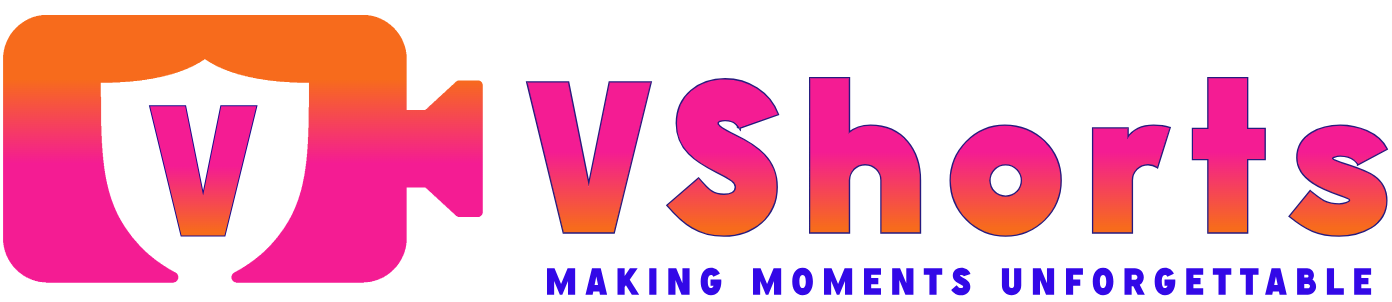
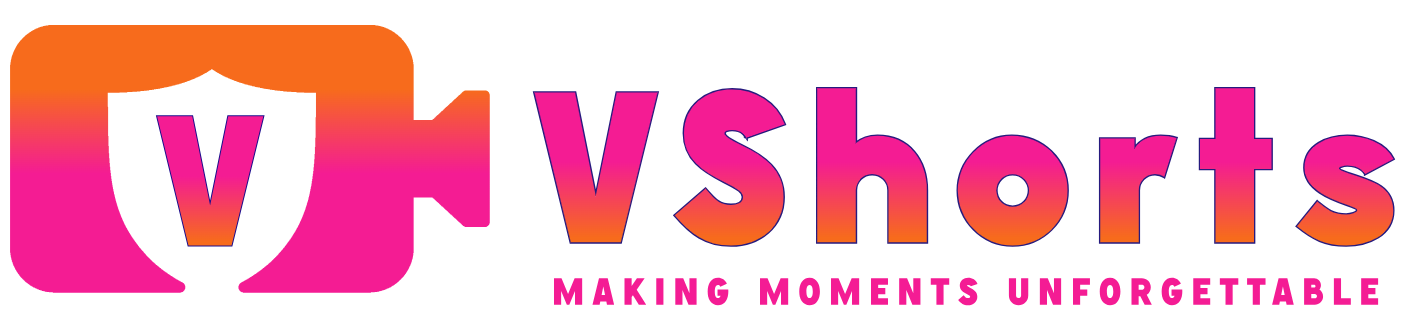
modified

diff --git a/components/Navbar.tsx b/components/Navbar.tsx
@@ -6,14 +6,17 @@ import { AiOutlineLogout } from 'react-icons/ai';
 import { BiSearch } from 'react-icons/bi';
 import { IoMdAdd } from 'react-icons/io';
 import { GoogleLogin, googleLogout  } from '@react-oauth/google';
+import { MdDarkMode, MdLightMode } from 'react-icons/md';
 import useAuthStore from '../store/authStore';
 import { IUser } from '../types';
 import { createOrGetUser } from '../utils';
 import Logo from '../utils/vshorts.png'
+import DarkLogo from '../utils/vshortsd.png'
 
 const Navbar = () => {
   const [user, setUser] = useState<IUser | null>();
   const [searchValue, setSearchValue] = useState('');
+  const [isDarkMode, setIsDarkMode] = useState(false)
   const router = useRouter();
   const { userProfile, addUser, removeUser } = useAuthStore();
   
@@ -29,13 +32,22 @@ const Navbar = () => {
     }
   };
 
+  const toggleDarkMode = () => {
+    setIsDarkMode(!isDarkMode);
+    if (isDarkMode) {
+      document.documentElement.classList.remove('dark');
+    } else {
+      document.documentElement.classList.add('dark');
+    }
+  };
+  
   return (
     <div className='w-full flex justify-between items-center border-b-2 border-gray-200 py-2 px-4'>
       <Link href='/'>
         <div className='w-[120px] md:w-[160px] md:h-[30px] h-[30px]'>
           <Image
             className='cursor-pointer'
-            src={Logo}
+            src={isDarkMode ? DarkLogo : Logo}
             alt='logo'
             layout='responsive'
           />
@@ -50,7 +62,7 @@ const Navbar = () => {
           <input
             value={searchValue}
             onChange={(e) => setSearchValue(e.target.value)}
-            className='bg-primary p-3 md:text-md font-medium border-2 border-gray-100 focus:outline-none focus:border-2 focus:border-gray-300 w-[300px] md:w-[350px] rounded-full  md:top-0'
+            className='bg-primary p-3 md:text-md text-primary dark:text-primary font-medium border-2 border-gray-100 focus:outline-none focus:border-2 focus:border-gray-300 w-[300px] md:w-[350px] rounded-full  md:top-0'
             placeholder='Search accounts and videos'
           />
           <button
@@ -61,6 +73,14 @@ const Navbar = () => {
           </button>
         </form>
       </div>
+      <button
+            type='button'
+            className='border-2 px-2 md:px-4 text-md font-semibold flex items-center gap-2'
+            onClick={toggleDarkMode}
+          >
+            {isDarkMode ? <MdLightMode className='text-xl' /> : <MdDarkMode className='text-xl' />}
+            <span className='hidden md:block'>Dark Mode</span>
+        </button>
       <div>
         {user ? (
           <div className='flex gap-5 md:gap-10'>

diff --git a/components/Discover.tsx b/components/Discover.tsx
@@ -9,22 +9,22 @@ const Discover: NextPage = () => {
   const router = useRouter();
   const { topic } = router.query;
 
-  const activeTopicStyle = 'xl:border-2 hover:bg-primary xl:border-[#F51997] px-3 py-2 rounded xl:rounded-full flex items-center gap-2 justify-center cursor-pointer text-[#F51997]';
-  const topicStyle = 'xl:border-2 hover:bg-primary xl:border-gray-300 px-3 py-2 rounded xl:rounded-full flex items-center gap-2 justify-center cursor-pointer text-black';
+  const activeTopicStyle = 'text-primary dark:text-primary xl:border-2 hover:bg-primary xl:border-[#F51997] px-3 py-2 rounded xl:rounded-full flex items-center gap-2 justify-center cursor-pointer text-[#F51997]';
+  const topicStyle = 'text-primary dark:text-primary xl:border-2 hover:bg-primary xl:border-gray-300 px-3 py-2 rounded xl:rounded-full flex items-center gap-2 justify-center cursor-pointer text-black';
 
   return (
     <div className='xl:border-b-2 xl:border-gray-200 pb-6'>
       <p className='text-gray-500 font-semibold m-3 mt-4 hidden xl:block'>
         Popular Topics
       </p>
-      <div className='flex gap-3 flex-wrap'>
+      <div className='text-primary dark:text-primary flex gap-3 flex-wrap'>
         {topics?.map((item) => (
           <Link href={`/?topic=${item.name}`} key={item.name}>
             <div className={topic === item.name ? activeTopicStyle : topicStyle}>
-              <span className='font-bold text-2xl xl:text-md '>
+              <span className='text-primary dark:text-primary font-bold text-2xl xl:text-md '>
                 {item.icon}
               </span>
-              <span className={`font-medium text-md hidden xl:block capitalize`}>
+              <span className={`text-primary dark:text-primary font-medium text-md hidden xl:block capitalize`}>
                 {item.name}
               </span>
             </div>

diff --git a/components/SuggestedAccounts.tsx b/components/SuggestedAccounts.tsx
@@ -27,7 +27,7 @@ const SuggestedAccounts: NextPage<IProps> = ({ fetchAllUsers, allUsers }) => {
       <div>
         {users?.slice(0, 6).map((user: IUser) => (
           <Link href={`/profile/${user._id}`} key={user._id}>
-            <div className='flex gap-3 hover:bg-primary p-2 cursor-pointer font-semibold rounded'>
+            <div className='text-primary dark:text-primary flex gap-3 hover:bg-primary p-2 cursor-pointer font-semibold rounded'>
               <div className='w-8 h-8'>
                 <Image
                   width={34}
@@ -40,7 +40,7 @@ const SuggestedAccounts: NextPage<IProps> = ({ fetchAllUsers, allUsers }) => {
               </div>
 
               <div className='hidden xl:block'>
-                <p className='flex gap-1 items-center text-md font-bold text-primary lowercase'>
+                <p className='flex gap-1 items-center text-md font-bold text-primary dark:text-primary lowercase'>
                   {user.userName.replace(/\s+/g, '')}{' '}
                   <GoVerified className='text-blue-400' />
                 </p>

diff --git a/utils/index.ts b/utils/index.ts
@@ -6,7 +6,7 @@ export const createOrGetUser = async (response: any, addUser: any) => {
   var base64 = base64Url.replace(/-/g, '+').replace(/_/g, '/');
   var jsonPayload = decodeURIComponent(atob(base64).split('').map(function(c) {
     return '%' + ('00' + c.charCodeAt(0).toString(16)).slice(-2);
-  }).join(''));
+  }).join('')); 
   
   const { name, picture, sub } = JSON.parse(jsonPayload)
   

diff --git a/styles/globals.css b/styles/globals.css
@@ -35,3 +35,19 @@ a {
 ::-webkit-scrollbar-track {
   background-color: transparent;
 }
+
+.dark {
+  background-color: #121212;
+  color: white;
+}
+.dark-mode-toggle {
+  background-color: #1e1e1e;
+  color: #f1f1f1;
+}
+.dark .text-primary {
+  color: #ffffff;
+}
+.dark body {
+  background-color: #121212;
+  color: white;
+}
